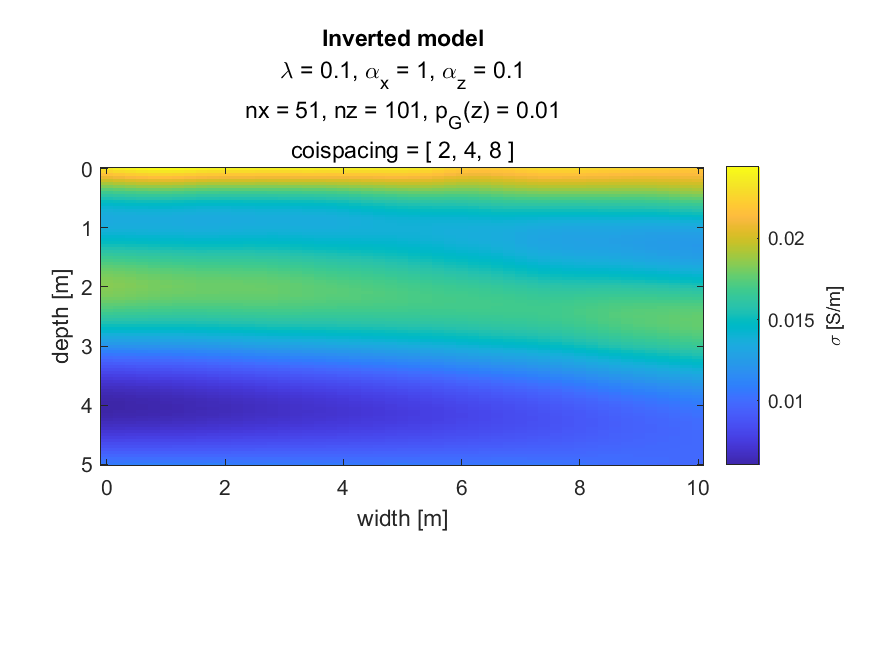
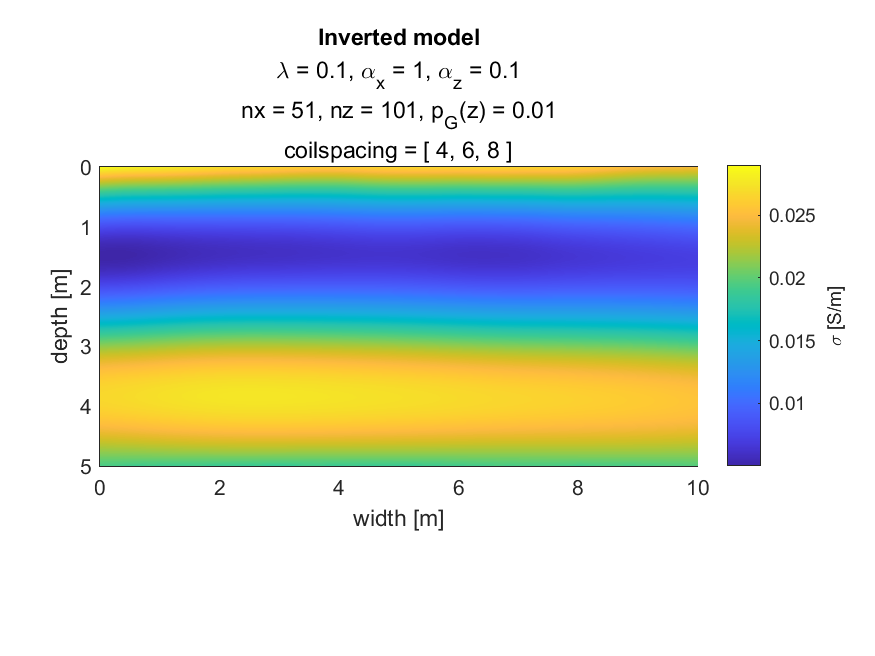
regu + coilspacing update

diff --git a/maltab_models/2D/Inversion2D.m b/maltab_models/2D/Inversion2D.m
@@ -46,30 +46,30 @@ Wm = alphax*(Dx'*Dx) + alphaz*(Dz'*Dz);
 % inversion
 lamb = 1e-1; % noise fitting parameter
 tol = 1e-10; % tolerance max
-itmax = 1e3; % max iteration
+itmax = 1e4; % max iteration
 
 A = G'*G + Wm*lamb; 
 b = G'*data(:, 1);
 [m1,fl1,rr1,it1,rv1] = cgs(A, b, tol, itmax);
 m = reshape(m1, [], nx);
 
-% figure()
-% semilogy(0:length(rv1)-1,rv1/norm(b),'-')
-% hold on
-% yline(tol,'r--');
-% xlabel('Iteration number')
-% ylabel('Relative residual')
+figure()
+semilogy(0:length(rv1)-1,rv1/norm(b),'-')
+hold on
+yline(tol,'r--');
+xlabel('Iteration number')
+ylabel('Relative residual')
 
 figure()
-inv = imagesc(xlog, ztop, m);
+inv = pcolor(xlog, ztop, m);
 title('Inverted model')
 subtitle({['\lambda = ' num2str(lamb) ', \alpha_x = ' num2str(alphax), ', \alpha_z = ' num2str(alphaz)]...
     ['nx = ' num2str(nx) ', nz = ' num2str(nz) ', p_G(z) = ' num2str(noi)]...
-    ['coispacing = [ ' num2str(data(1, 2)) ', ' num2str(data(3, 2)) ', ' num2str(data(5, 2)) ' ]']})
+    ['coilspacing = [ ' num2str(data(1, 2)) ', ' num2str(data(3, 2)) ', ' num2str(data(5, 2)) ' ]']})
 set(gca, 'YDir','reverse')
 xlabel('width [m]')
 ylabel('depth [m]')
-% shading interp;
+shading interp;
 axis image
 c = colorbar;
 c.Label.String = '\sigma [S/m]';

diff --git a/maltab_models/2D/CreateData.m b/maltab_models/2D/CreateData.m
@@ -4,10 +4,10 @@ tic
 % initial parameters
 xlog = 0:0.2:10; %[m] horizontal discretization
 nmeasure = length(xlog); % number of horizontal measurments
-ztop = repmat([0; 1; 1.5; 3], 1, nmeasure); % top layer vertical coordinate
+ztop = repmat([0; 1; 2], 1, nmeasure); % top layer vertical coordinate
 
-sig = repmat([0.02; 0.001; 0.02; 0.01], 1, nmeasure); % true model map
-coilsep = repmat([2 2 4 4 8 8], nmeasure, 1)'; % coilseparations
+sig = repmat([0.02; 0.002; 0.02], 1, nmeasure); % true model map
+coilsep = repmat([4 4 6 6 8 8], nmeasure, 1)'; % coilseparations
 ori = repmat([1 0], nmeasure, 3)'; % orientation of the dipole (0 = vertical, 1 = horizontal)
 
 data = []; % preset data matrix

diff --git a/maltab_models/1D/weightEM1D.m b/maltab_models/1D/weightEM1D.m
@@ -1,7 +1,7 @@
 % z = top layer height
 % sep = coil spacing
 % ori = coil orientation (0, 1)
-function Weight = Weight1D(z, sep, ori)
+function Weight = weightEM1D(z, sep, ori)
     if ori == 0
         w = (4*(z./sep).^2+1).^(-1/2);             % vertical dipole
     elseif ori == 1

diff --git a/maltab_models/1D/inversionEM1D.m b/maltab_models/1D/inversionEM1D.m
@@ -14,6 +14,7 @@ function m = inversionEM1D(ztop, data, lamb, Wm, tol, itmax)
         R = weightEM1D(ztop, data(i,2), data(i,3));
         G(i, :) = R;
     end
+    size(G)
     % setting up inverse model
     A = G'*G + lamb*Wm;
     b = G'*data(:, 1);

diff --git a/maltab_models/1D/Inversion.m b/maltab_models/1D/Inversion.m
@@ -20,8 +20,8 @@ end
 data(:, 1) = sigma_a;
 
 % smoothness
-e = ones(nlay,1);
-D = spdiags([e -2*e e], -1:1, nlay, nlay);
+sm = ones(nlay,1);
+D = spdiags([sm -2*sm sm], -1:1, nlay, nlay);
 D(1, :) = 0; D(end, :) = 0;
 
 % regularization
